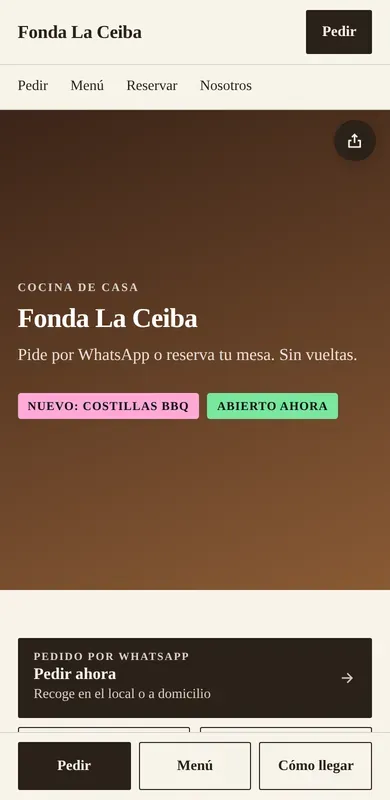
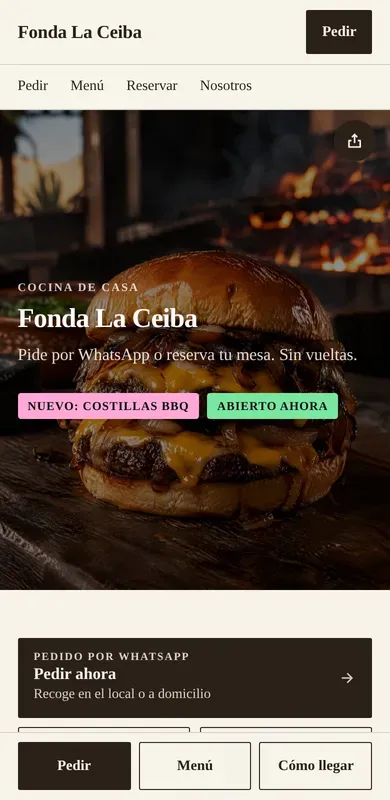
ejemplos: fotos de los demos (design #650) en portada, galerías, propiedades y retrato
27 fotos WebP (IA, personas ficticias) en src/content/ejemplos/fotos con su texto alternativo. El script de ejemplos las sube
una sola vez a la cuenta interna y los seeds las usan solo en los ejemplos: portada con foto de fondo, galerías nuevas («El
lugar», «Nuestro trabajo», «El estudio», «El consultorio», «Por dentro», «Adentro», «La oficina»), fotos de las propiedades y
retrato de la doctora. Sin fotos (sitio de una persona) el sitio sale igual. No incluye miniaturas de menú ni tarjetas de
tratamientos: el contenido de los ejemplos de la app no coincide con los demos del diseño. Vistas del home regeneradas.
Versión de estáticos 49. Sin migración. NO desplegar sin ok de Alejandro.

Claude-Session: https://claude.ai/code/session_01HtSBGwTxU9ah8A9tNqxoSw

diff --git a/src/modules/minisitio/giros.ts b/src/modules/minisitio/giros.ts
@@ -31,6 +31,8 @@ export type GiroVals = {
   logo?: string | null
   /** textos de la ficha de ejemplo: el ejemplo vivo usa esto para no llevar la dirección del dueño real */
   example?: boolean
+  /** fotos de los sitios de ejemplo: archivo → llave de la imagen ya subida y su texto alternativo (design, bloque 7) */
+  fotos?: Record<string, { key: string; alt: string }>
 }
 
 const week = (open: string, close: string, sat?: [string, string], sun?: [string, string]) => [
@@ -55,14 +57,27 @@ function etiquetas(c: Ctx, sectionId: number, items: [string, 'rosa' | 'verde' |
   if (c.v.example) c.blk('tags', { items: items.map(([label, tone]) => ({ label, tone })) }, sectionId)
 }
 
-/** Portada: sección con degradado, titular del negocio y el botón principal */
-function portada(c: Ctx, sectionId: number, antetitulo: string, subtitulo: string): void {
-  updateSection(c.db, sectionId, readSectionData({ ancla: 'inicio', antetitulo, titulo: c.v.name, subtitulo, fondo: 'degradado', color: c.meta.c1, color2: c.meta.c2, angulo: 160, alto: 'media', ancho: 'normal' }), true, c.now)
+/** Portada: sección con degradado (o con la foto del ejemplo), titular del negocio y el botón principal */
+function portada(c: Ctx, sectionId: number, antetitulo: string, subtitulo: string, foto?: string): void {
+  const f = foto ? c.v.fotos?.[foto] : undefined
+  const fondo = f ? { fondo: 'imagen', imagen: f.key, oscurecer: 45 } : { fondo: 'degradado', color: c.meta.c1, color2: c.meta.c2, angulo: 160 }
+  updateSection(c.db, sectionId, readSectionData({ ancla: 'inicio', antetitulo, titulo: c.v.name, subtitulo, ...fondo, alto: 'media', ancho: 'normal' }), true, c.now)
+}
+
+/** Llave de una foto de ejemplo (si el sitio es uno de los ejemplos y la subió el script) */
+const foto = (c: Ctx, name: string): string | undefined => c.v.fotos?.[name]?.key
+
+/** Sección con una galería de fotos de ejemplo; sin fotos (el sitio de una persona) no hace nada */
+function galeria(c: Ctx, home: number, antetitulo: string, titulo: string, names: string[], columns: '2' | '3' = '2'): void {
+  const fs = names.map((n) => c.v.fotos?.[n]).filter((f): f is { key: string; alt: string } => !!f)
+  if (!fs.length) return
+  const sec = c.mk(home, { antetitulo, titulo, ancho: 'normal' })
+  c.blk('gallery', { images: fs.map((f) => f.key), columns, alt: fs.map((f) => f.alt).join(' · ').slice(0, 200) }, sec)
 }
 
 const BUILDERS: Record<Giro, (c: Ctx, home: number, first: number) => { nav: SiteConfig['cabecera']['nav_manual']; barra: Action[]; cta: Action; servicios: string }> = {
   restaurante(c, home, first) {
-    portada(c, first, 'Cocina de casa', 'Pide por WhatsApp o reserva tu mesa. Sin vueltas.')
+    portada(c, first, 'Cocina de casa', 'Pide por WhatsApp o reserva tu mesa. Sin vueltas.', 'restaurante/hero.webp')
     etiquetas(c, first, [['Nuevo: costillas BBQ', 'rosa'], ['Abierto ahora', 'verde']])
     const a = c.mk(home, { ancla: 'acciones', ancho: 'angosto' })
     c.blk('action_panel', {
@@ -90,6 +105,7 @@ const BUILDERS: Record<Giro, (c: Ctx, home: number, first: number) => { nav: Sit
       ],
     }, m)
     c.blk('wa_request', { preset: 'pedido', guardar_copia: true }, m)
+    galeria(c, home, 'El lugar', 'Así se come aquí', ['restaurante/galeria-local.webp', 'restaurante/galeria-parrilla.webp', 'restaurante/galeria-mesa.webp'], '3')
     const n = c.page('nosotros', 'Nosotros', 'Nuestra historia y horario')
     c.blk('paragraph', { text: 'Somos un negocio familiar. Cocinamos con ingredientes del día y recetas que se heredan. Cuéntale a tus clientes quién eres: cuándo empezaron, qué los hace distintos, qué platillo no se pueden perder.' }, n)
     return {
@@ -101,7 +117,7 @@ const BUILDERS: Record<Giro, (c: Ctx, home: number, first: number) => { nav: Sit
   },
 
   belleza(c, home, first) {
-    portada(c, first, 'Belleza · cuidado personal', 'Agenda tu cita por WhatsApp. Te confirmamos el horario.')
+    portada(c, first, 'Belleza · cuidado personal', 'Agenda tu cita por WhatsApp. Te confirmamos el horario.', 'belleza/hero.webp')
     etiquetas(c, first, [['Promo de noviembre', 'rosa'], ['Hay lugar hoy', 'verde']])
     const cta = c.mk(home, { ancho: 'angosto' })
     c.blk('wa_request', { preset: 'cita', boton: 'Agendar mi cita', guardar_copia: true }, cta)
@@ -119,6 +135,8 @@ const BUILDERS: Record<Giro, (c: Ctx, home: number, first: number) => { nav: Sit
     }, s)
     const e = c.mk(home, { ancla: 'equipo', antetitulo: 'Quiénes somos', titulo: 'Nuestro equipo', fondo: 'color', color: '#f6e9ee', ancho: 'angosto' })
     c.blk('paragraph', { text: 'Presenta a tu equipo: nombres, especialidad y años de experiencia. Las clientas confían más cuando saben con quién se van a sentar.' }, e)
+    galeria(c, home, 'Nuestro trabajo', 'Hecho a mano', ['belleza/galeria-nude.webp', 'belleza/galeria-frances.webp', 'belleza/galeria-rosa.webp', 'belleza/galeria-acrilico.webp'])
+    galeria(c, home, 'El estudio', 'Un lugar para ti', ['belleza/local.webp', 'belleza/detalle-esmaltes.webp'])
     return {
       nav: [{ texto: 'Servicios', tipo: 'ancla', destino: 'servicios' }, { texto: 'Equipo', tipo: 'ancla', destino: 'equipo' }, { texto: 'Ubicación', tipo: 'ancla', destino: 'ubicacion' }],
       barra: [{ texto: 'Agendar cita', tipo: 'whatsapp', destino: '', mensaje: 'Hola, quiero agendar una cita' }, { texto: 'Servicios', tipo: 'ancla', destino: 'servicios', mensaje: '' }],
@@ -144,7 +162,7 @@ const BUILDERS: Record<Giro, (c: Ctx, home: number, first: number) => { nav: Sit
     }, cat)
     const p = c.mk(home, { ancla: 'doctor', antetitulo: 'Quién te atiende', fondo: 'color', color: '#e3ebe9', ancho: 'normal' })
     c.blk('profile', {
-      nombre: c.v.name, especialidad: 'Tu especialidad médica',
+      foto: foto(c, 'salud/hero-retrato.webp') ?? null, nombre: c.v.name, especialidad: 'Tu especialidad médica',
       bio: 'Cuenta en dos o tres líneas tu trayectoria: dónde estudiaste, cuántos años de práctica tienes y cómo atiendes a tus pacientes.',
       credenciales: [{ etiqueta: 'Formación', valor: 'Universidad y año' }, { etiqueta: 'Especialidad', valor: 'Institución' }, { etiqueta: 'Cédula', valor: 'Número de cédula profesional' }],
       enlace_verificacion: 'https://cedulaprofesional.sep.gob.mx/', texto_verificacion: 'Verificar cédula en la SEP',
@@ -157,6 +175,7 @@ const BUILDERS: Record<Giro, (c: Ctx, home: number, first: number) => { nav: Sit
     c.blk('heading', { text: 'Preguntas frecuentes', level: 'h2' }, pg)
     c.blk('paragraph', { text: '¿Debo llevar estudios previos? Sí, si los tienes.\n¿Cuánto cuesta? Pregúntanos por WhatsApp y te damos el costo vigente.' }, pg)
     c.blk('wa_request', { preset: 'cita', boton: 'Agendar cita', guardar_copia: true }, pg)
+    galeria(c, home, 'El consultorio', 'Conoce dónde te atendemos', ['salud/consultorio.webp', 'salud/recepcion.webp'])
     return {
       nav: [{ texto: 'Opciones', tipo: 'ancla', destino: 'opciones' }, { texto: 'Quién te atiende', tipo: 'ancla', destino: 'doctor' }, { texto: 'Contacto', tipo: 'ancla', destino: 'contacto' }],
       barra: [{ texto: 'Agendar valoración', tipo: 'ancla', destino: 'contacto', mensaje: '' }, { texto: 'WhatsApp', tipo: 'whatsapp', destino: '', mensaje: 'Hola, quisiera una valoración' }],
@@ -166,15 +185,15 @@ const BUILDERS: Record<Giro, (c: Ctx, home: number, first: number) => { nav: Sit
   },
 
   inmobiliaria(c, home, first) {
-    portada(c, first, 'Bienes raíces', 'Compra, vende o renta con acompañamiento de principio a fin.')
+    portada(c, first, 'Bienes raíces', 'Compra, vende o renta con acompañamiento de principio a fin.', 'inmobiliaria/hero-bahia.webp')
     etiquetas(c, first, [['3 propiedades disponibles', 'verde'], ['Venta', 'azul'], ['Renta', 'azul']])
     const l = c.mk(home, { ancla: 'propiedades', antetitulo: 'Disponibles', titulo: 'Propiedades', ancho: 'ancho' })
     c.blk('listings', {
       titulo: '',
       items: [
-        { titulo: 'Casa en zona residencial', operacion: 'venta', tipo: 'casa', precio: '$3,500,000', recamaras: 3, banos: 2, m2: 180, colonia: 'Colonia ejemplo', estado: 'disponible', descripcion: 'Jardín, cochera para 2 autos y cocina integral. Cambia este texto por los datos de tu propiedad.' },
-        { titulo: 'Departamento céntrico', operacion: 'renta', tipo: 'departamento', precio: '$12,000/mes', recamaras: 2, banos: 1, m2: 75, colonia: 'Centro', estado: 'disponible', descripcion: 'A pasos de comercios y transporte.' },
-        { titulo: 'Terreno campestre', operacion: 'venta', tipo: 'terreno', precio: '$900,000', m2: 1000, colonia: 'Zona campestre', estado: 'disponible' },
+        { foto: foto(c, 'inmobiliaria/prop-casa.webp') ?? null, titulo: 'Casa en zona residencial', operacion: 'venta', tipo: 'casa', precio: '$3,500,000', recamaras: 3, banos: 2, m2: 180, colonia: 'Colonia ejemplo', estado: 'disponible', descripcion: 'Jardín, cochera para 2 autos y cocina integral. Cambia este texto por los datos de tu propiedad.' },
+        { foto: foto(c, 'inmobiliaria/prop-departamento.webp') ?? null, titulo: 'Departamento céntrico', operacion: 'renta', tipo: 'departamento', precio: '$12,000/mes', recamaras: 2, banos: 1, m2: 75, colonia: 'Centro', estado: 'disponible', descripcion: 'A pasos de comercios y transporte.' },
+        { foto: foto(c, 'inmobiliaria/prop-terreno.webp') ?? null, titulo: 'Terreno campestre', operacion: 'venta', tipo: 'terreno', precio: '$900,000', m2: 1000, colonia: 'Zona campestre', estado: 'disponible' },
       ],
     }, l)
     c.blk('wa_request', { preset: 'visita', boton: 'Solicitar visita', guardar_copia: true }, l)
@@ -184,6 +203,7 @@ const BUILDERS: Record<Giro, (c: Ctx, home: number, first: number) => { nav: Sit
       bio: 'Cuéntale a tus clientes cuánto tiempo llevas en el mercado, en qué zonas trabajas y cómo cuidas cada operación.',
       credenciales: [{ etiqueta: 'Zonas', valor: 'Tu ciudad y colonias' }, { etiqueta: 'Experiencia', valor: 'Años en el mercado' }],
     }, a)
+    galeria(c, home, 'Por dentro', 'Así son por dentro', ['inmobiliaria/galeria-cocina.webp', 'inmobiliaria/galeria-recamara.webp'])
     return {
       nav: [{ texto: 'Propiedades', tipo: 'ancla', destino: 'propiedades' }, { texto: 'Asesor', tipo: 'ancla', destino: 'asesor' }, { texto: 'Ubicación', tipo: 'ancla', destino: 'ubicacion' }],
       barra: [{ texto: 'Pedir visita', tipo: 'ancla', destino: 'propiedades', mensaje: '' }, { texto: 'WhatsApp', tipo: 'whatsapp', destino: '', mensaje: 'Hola, me interesa una propiedad' }],
@@ -193,7 +213,7 @@ const BUILDERS: Record<Giro, (c: Ctx, home: number, first: number) => { nav: Sit
   },
 
   fitness(c, home, first) {
-    portada(c, first, 'Entrenamiento', 'Clases para todos los niveles. Tu primera clase es de prueba.')
+    portada(c, first, 'Entrenamiento', 'Clases para todos los niveles. Tu primera clase es de prueba.', 'fitness/hero-clase.webp')
     etiquetas(c, first, [['Reto de noviembre', 'rosa'], ['3 lugares hoy', 'verde']])
     const p = c.mk(home, { ancla: 'programas', antetitulo: 'Elige tu camino', titulo: 'Programas', ancho: 'ancho' })
     c.blk('programs', {
@@ -211,6 +231,7 @@ const BUILDERS: Record<Giro, (c: Ctx, home: number, first: number) => { nav: Sit
       items: [cl('Spinning', 'mon', '07:00', '07:45', 'Instructor', 15), cl('Yoga', 'mon', '18:00', '19:00', 'Instructora', 12), cl('HIIT', 'tue', '07:00', '07:30'), cl('Fuerza', 'wed', '19:00', '20:00', 'Instructor', 10), cl('Yoga', 'thu', '18:00', '19:00', 'Instructora', 12), cl('Movilidad', 'sat', '09:00', '10:00', 'Instructora', 20)],
     }, h)
     c.blk('wa_request', { preset: 'clase', boton: 'Reservar clase muestra', guardar_copia: true }, h)
+    galeria(c, home, 'Adentro', 'Así se entrena aquí', ['fitness/estudio.webp', 'fitness/detalle-kettlebells.webp', 'fitness/galeria-comunidad.webp'], '3')
     return {
       nav: [{ texto: 'Programas', tipo: 'ancla', destino: 'programas' }, { texto: 'Clases', tipo: 'ancla', destino: 'clases' }, { texto: 'Ubicación', tipo: 'ancla', destino: 'ubicacion' }],
       barra: [{ texto: 'Clase muestra', tipo: 'ancla', destino: 'clases', mensaje: '' }, { texto: 'WhatsApp', tipo: 'whatsapp', destino: '', mensaje: 'Hola, quiero información de las clases' }],
@@ -237,6 +258,7 @@ const BUILDERS: Record<Giro, (c: Ctx, home: number, first: number) => { nav: Sit
     c.blk('paragraph', { text: 'Menciona las colonias o ciudades donde das servicio y el tiempo de respuesta habitual.' }, z)
     const r = c.mk(home, { ancla: 'resenas', antetitulo: 'Clientes', titulo: 'Lo que dicen de nosotros', ancho: 'angosto' })
     c.blk('trust_line', { items: [{ texto: 'Servicio garantizado' }, { texto: 'Presupuesto sin costo' }, { texto: 'Atención por WhatsApp' }] }, r)
+    galeria(c, home, 'La oficina', 'Ven a conocernos', ['servicios/oficina.webp', 'servicios/reunion.webp', 'servicios/escritorio.webp'], '3')
     return {
       nav: [{ texto: 'Servicios', tipo: 'ancla', destino: 'servicios' }, { texto: 'Cobertura', tipo: 'ancla', destino: 'cobertura' }],
       barra: [{ texto: 'Cotizar', tipo: 'whatsapp', destino: '', mensaje: 'Hola, quisiera una cotización' }],

diff --git a/src/cli/ejemplos.ts b/src/cli/ejemplos.ts
@@ -1,5 +1,8 @@
 // npm run ejemplos [-- --rehacer] [--whatsapp 521…] — crea (o rehace) los 6 sitios de ejemplo del home: /ejemplo-restaurante, /ejemplo-belleza…
 // Corre también en producción: son contenido público de tubio, a nombre de una cuenta interna sin acceso (sin contraseña usable).
+import { createHash } from 'node:crypto'
+import { mkdirSync, readFileSync, readdirSync, writeFileSync } from 'node:fs'
+import { dirname, join } from 'node:path'
 import { loadConfig } from '../config.ts'
 import { migrate, openDb } from '../db/index.ts'
 import { hashPassword, randomToken } from '../lib/crypto.ts'
@@ -10,6 +13,29 @@ import { getSetting } from '../modules/settings/repo.ts'
 import { createUser, findUserByEmail, updateUser } from '../modules/users/repo.ts'
 
 const EMAIL = 'ejemplos@tubio.link'
+const FOTOS = join(import.meta.dirname, '..', 'content', 'ejemplos')
+
+/** Sube (una sola vez por contenido) las fotos de un ejemplo a la cuenta interna y devuelve archivo → llave y texto alternativo */
+function subirFotos(userId: number, giro: string): Record<string, { key: string; alt: string }> {
+  const alts = (JSON.parse(readFileSync(join(FOTOS, 'fotos.json'), 'utf8')) as { fotos: Record<string, { alt: { es: string } }> }).fotos
+  const out: Record<string, { key: string; alt: string }> = {}
+  let files: string[] = []
+  try { files = readdirSync(join(FOTOS, 'fotos', giro)) } catch { return out }
+  for (const f of files.filter((x) => x.endsWith('.webp'))) {
+    const buf = readFileSync(join(FOTOS, 'fotos', giro, f))
+    const sha = createHash('sha256').update(buf).digest('hex')
+    let key = db.prepare('SELECT key FROM files WHERE user_id = ? AND sha256 = ?').pluck().get(userId, sha) as string | undefined
+    if (!key) {
+      key = `${randomToken(18)}.webp` // las imágenes se guardan como <token>.webp (el esquema de secciones lo exige)
+      const dest = join(config.dataDir, 'uploads', key.slice(0, 2), key)
+      mkdirSync(dirname(dest), { recursive: true })
+      writeFileSync(dest, buf)
+      db.prepare('INSERT INTO files (user_id, key, kind, original_name, mime, size, sha256, created_at) VALUES (?, ?, ?, ?, ?, ?, ?, ?)').run(userId, key, 'image', f, 'image/webp', buf.length, sha, now)
+    }
+    out[`${giro}/${f}`] = { key, alt: alts[`${giro}/${f}`]?.alt.es ?? '' }
+  }
+  return out
+}
 const config = loadConfig()
 const db = openDb(config.dbPath)
 migrate(db)
@@ -40,7 +66,7 @@ for (const g of GIROS) {
       data: { ...defaultBioData(m.exampleName, '', m.theme), seo_title: `${m.exampleName} · ejemplo de sitio túbio`, category: m.category, noindex: true },
       is_enabled: true, starts_at: null, ends_at: null, expired_url: null, click_limit: null, limit_url: null, is_sensitive: false, utm: {}, forward_query: false, public_stats: false,
     }, now)
-    applyGiro(db, link.id, g, { name: m.exampleName, whatsapp, address: 'Calle de los Ejemplos 123, Colima, Col.', example: true }, now)
+    applyGiro(db, link.id, g, { name: m.exampleName, whatsapp, address: 'Calle de los Ejemplos 123, Colima, Col.', example: true, fotos: subirFotos(owner!.id, g) }, now)
   })()
   console.log(`listo: /${m.example}`)
 }

diff --git a/tests/giros.test.ts b/tests/giros.test.ts
@@ -95,3 +95,27 @@ describe('etiquetas con marcatextos (bloque 7)', () => {
     expect(ejemplo).toContain('<span class="tg tg-verde">Abierto ahora</span>')
   })
 })
+
+describe('fotos de los ejemplos (bloque 7)', () => {
+  it('con fotos, la portada, la galería y las propiedades las usan; sin fotos (sitio de una persona) el sitio sale igual que antes', async () => {
+    const t = await makeApp()
+    const v = await signup(t)
+    const { createLink } = await import('../src/modules/links/repo.ts')
+    const { defaultBioData } = await import('../src/modules/bio/design.ts')
+    const { applyGiro } = await import('../src/modules/minisitio/giros.ts')
+    const owner = t.deps.db.prepare('SELECT id FROM users LIMIT 1').pluck().get() as number
+    const mk = (alias: string) => createLink(t.deps.db, owner, { project_id: null, alias, kind: 'bio', title: 'X', target_url: null, redirect_code: 302, data: { ...defaultBioData('X', '', 'papel'), noindex: true }, is_enabled: true, starts_at: null, ends_at: null, expired_url: null, click_limit: null, limit_url: null, is_sensitive: false, utm: {}, forward_query: false, public_stats: false }, Date.now())
+    const F = (k: string) => ({ key: `llave${k}.webp`, alt: `alt ${k}` })
+    const fotos = Object.fromEntries(['inmobiliaria/hero-bahia.webp', 'inmobiliaria/prop-casa.webp', 'inmobiliaria/prop-terreno.webp', 'inmobiliaria/galeria-cocina.webp', 'inmobiliaria/galeria-recamara.webp'].map((n, i) => [n, F(String(i))]))
+    applyGiro(t.deps.db, mk('con').id, 'inmobiliaria', { name: 'Inmobiliaria Sol', whatsapp: '', address: 'Calle 1', example: true, fotos }, Date.now())
+    const con = (await v.get('/con')).body
+    expect(con).toContain('/_/u/llave0') // portada con la foto de fondo
+    expect(con).toContain('/_/u/llave1') // la casa
+    expect(con).toContain('/_/u/llave3') // galería «Por dentro»
+    expect(con).toContain('Así son por dentro')
+    applyGiro(t.deps.db, mk('sin').id, 'inmobiliaria', { name: 'Inmobiliaria Sol', whatsapp: '', address: 'Calle 1' }, Date.now())
+    const sin = (await v.get('/sin')).body
+    expect(sin).not.toContain('/_/u/')
+    expect(sin).not.toContain('Así son por dentro')
+  })
+})

diff --git a/src/views/layout.ts b/src/views/layout.ts
@@ -6,7 +6,7 @@ import { csrfField, flashBox } from './ui.ts'
 import { icon } from './icons.ts'
 import { brandHead, wordmark } from './brand.ts'
 
-export const ASSET_VERSION = '48'
+export const ASSET_VERSION = '49'
 
 function head(ctx: Ctx, title: string, extra: HtmlValue = ''): SafeHtml {
   return html`<head>
